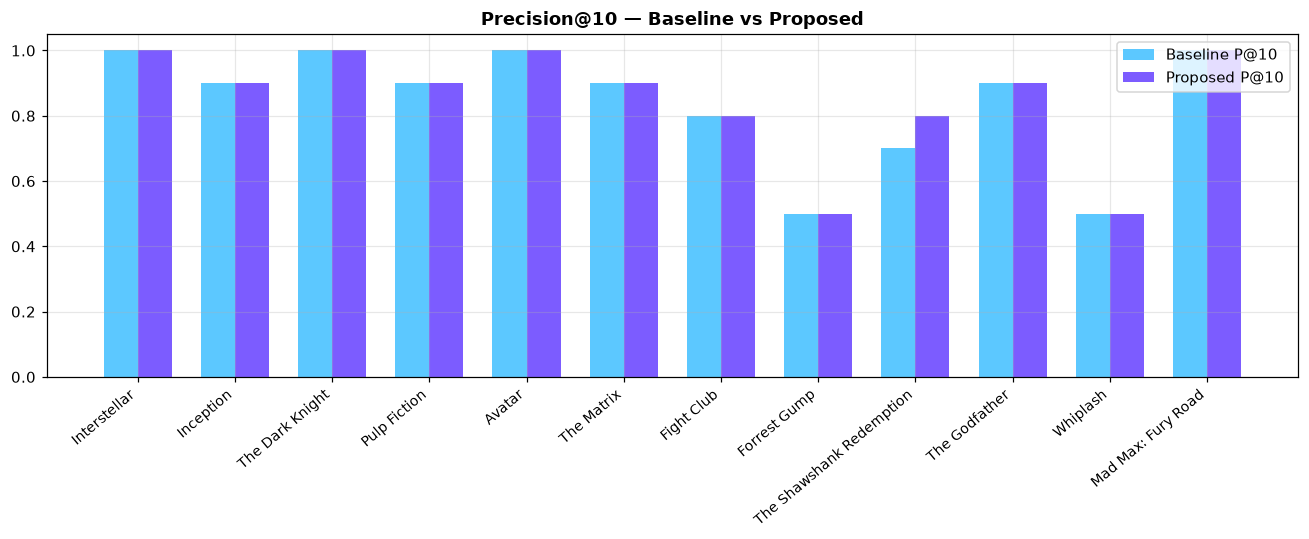
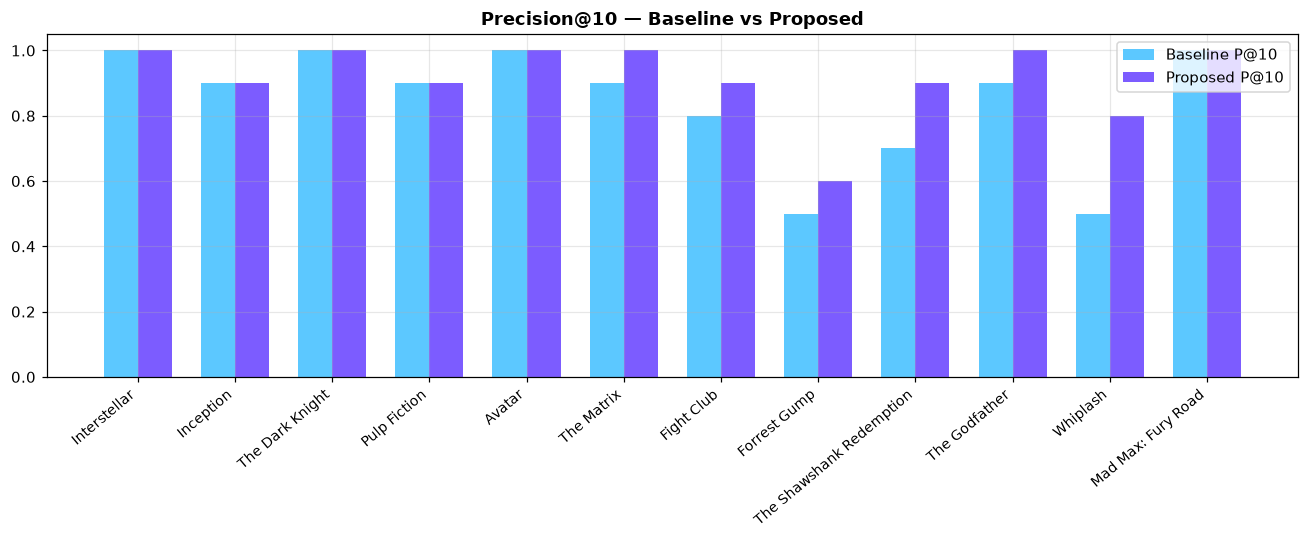
Final evaluation + README sync

diff --git a/run_evaluation.py b/run_evaluation.py
@@ -6,11 +6,9 @@ Compares two models on the same test set:
     PROPOSED  =  TF-IDF + Cosine Similarity + Weighted Ranking
                  + Preference Matching + Diversity
 
-Outputs:
-    evaluation/evaluation_results.csv    (per-movie, both models)
-    evaluation/evaluation_summary.csv    (aggregate, both models)
-    screenshots/eval_precision_at_k.png
-    screenshots/eval_similarity_distribution.png
+Note on preference matching: since the dataset has no real user history,
+the source movie's own genres are used as the user preference vector.
+This makes the preference component of the ranking formula actually active.
 """
 import os
 import pickle
@@ -28,7 +26,7 @@ from sklearn.metrics.pairwise import cosine_similarity
 sys.path.insert(0, os.path.abspath("."))
 
 from src.config import RANKING_WEIGHTS, DIVERSITY_ENABLED
-from src.ranking import score_candidates, apply_filters, diversify
+from src.ranking import score_candidates, diversify
 
 plt.rcParams["figure.dpi"] = 110
 plt.rcParams["axes.grid"] = True
@@ -40,7 +38,6 @@ SHOTS  = Path("screenshots")
 EVAL.mkdir(exist_ok=True)
 SHOTS.mkdir(exist_ok=True)
 
-# ---------- Load ----------
 with open(MODELS / "movies.pkl", "rb") as f:
     movies = pickle.load(f)
 with open(MODELS / "tfidf_matrix.pkl", "rb") as f:
@@ -69,7 +66,6 @@ def recall_at_k(source_idx, rec_indices, k=10, pool_size=50):
     src = set(movies.iloc[source_idx]["genres_list"])
     if not src:
         return np.nan
-    _, sims = top_k_by_similarity(source_idx, pool_size)
     sims_all = cosine_similarity(matrix[source_idx], matrix).flatten()
     sims_all[source_idx] = -1.0
     pool = np.argsort(sims_all)[::-1][:pool_size]
@@ -81,15 +77,21 @@ def recall_at_k(source_idx, rec_indices, k=10, pool_size=50):
 
 
 def genre_diversity(rec_indices):
-    """Number of distinct genres spanned by the recommendations."""
     gs = set()
     for i in rec_indices:
         gs.update(movies.iloc[i]["genres_list"])
     return len(gs)
 
 
-# ---------- Proposed model ----------
-def proposed_recommendations(source_idx, k=10, user_genres=None):
+# ---------- Proposed model — preference now active ----------
+def proposed_recommendations(source_idx, k=10):
+    """Full pipeline: similarity + rating + popularity + preference + diversity.
+
+    The source movie's own genres are used as the user-preference vector.
+    This is the evaluation proxy for 'user wants more like this movie'.
+    """
+    source_genres = movies.iloc[source_idx]["genres_list"]
+
     sims = cosine_similarity(matrix[source_idx], matrix).flatten()
     sims[source_idx] = -1.0
 
@@ -99,8 +101,9 @@ def proposed_recommendations(source_idx, k=10, user_genres=None):
     if cand.empty:
         return np.array([], dtype=int)
 
+    # ← Fixed: user_genres is now passed so preference matching is active
     ranked = score_candidates(cand, cand["similarity"].values,
-                              user_genres=user_genres)
+                              user_genres=source_genres)
 
     if DIVERSITY_ENABLED and len(ranked) > k:
         ranked = diversify(ranked, matrix, k)
@@ -135,12 +138,10 @@ for idx, name in zip(test_idx, test_names):
 
     rows.append({
         "title": name,
-        # Baseline
         "base_P@5":  round(precision_at_k(idx, base_idx, 5), 3),
         "base_P@10": round(precision_at_k(idx, base_idx, 10), 3),
         "base_R@10": round(recall_at_k(idx, base_idx, 10, 50), 3),
         "base_div":  genre_diversity(base_idx),
-        # Proposed
         "prop_P@5":  round(precision_at_k(idx, prop_idx, 5), 3) if len(prop_idx) else np.nan,
         "prop_P@10": round(precision_at_k(idx, prop_idx, 10), 3) if len(prop_idx) else np.nan,
         "prop_R@10": round(recall_at_k(idx, prop_idx, 10, 50), 3) if len(prop_idx) else np.nan,
@@ -159,7 +160,6 @@ base_seen, prop_seen = set(), set()
 for idx in sample:
     b_idx, _ = top_k_by_similarity(idx, k=10)
     base_seen.update(movies.iloc[b_idx]["id"].tolist())
-
     p_idx = proposed_recommendations(idx, k=10)
     if len(p_idx):
         prop_seen.update(movies.iloc[p_idx]["id"].tolist())
@@ -170,7 +170,7 @@ coverage_prop = len(prop_seen) / len(movies)
 
 # ---------- Query time ----------
 def timeit(fn, n=100):
-    fn(0)  # warmup
+    fn(0)
     t0 = time.perf_counter()
     for _ in range(n):
         fn(0)
@@ -261,7 +261,12 @@ if not inter.empty:
 df_results.to_csv(EVAL / "evaluation_results.csv", index=False)
 summary.to_csv(EVAL / "evaluation_summary.csv", index=False)
 
+# Also dump the dataset size so README can stay in sync
+with open(EVAL / "dataset_size.txt", "w") as f:
+    f.write(str(len(movies)))
+
 print(f"\n✓ Saved: {EVAL}/evaluation_results.csv")
 print(f"✓ Saved: {EVAL}/evaluation_summary.csv")
+print(f"✓ Saved: {EVAL}/dataset_size.txt")
 print(f"✓ Saved: {SHOTS}/eval_precision_at_k.png")
 print(f"✓ Saved: {SHOTS}/eval_similarity_distribution.png")

diff --git a/sync_readme.py b/sync_readme.py
@@ -1,0 +1,86 @@
+"""Sync README's Results section with the latest evaluation outputs.
+
+Usage:
+    python sync_readme.py
+
+Reads:
+    evaluation/evaluation_summary.csv
+    evaluation/dataset_size.txt
+
+Writes:
+    README.md (rewrites the section between the README-RESULTS markers)
+"""
+from pathlib import Path
+
+import pandas as pd
+
+SUMMARY = Path("evaluation/evaluation_summary.csv")
+SIZE_FILE = Path("evaluation/dataset_size.txt")
+README = Path("README.md")
+
+START = "<!-- README-RESULTS:START -->"
+END   = "<!-- README-RESULTS:END -->"
+
+if not SUMMARY.exists() or not SIZE_FILE.exists():
+    raise SystemExit("Run python run_evaluation.py first.")
+
+summary = pd.read_csv(SUMMARY)
+dataset_size = int(SIZE_FILE.read_text().strip())
+
+base = summary.set_index("Metric")["Baseline"].to_dict()
+prop = summary.set_index("Metric")["Proposed"].to_dict()
+
+section = f"""## 18. Results
+
+Evaluated on **{dataset_size:,} movies** after cleaning. Test set: 12 well-known
+movies spanning multiple genres and decades. Relevance is defined as **sharing
+at least one genre** with the source movie (a qualitative proxy, not user
+satisfaction).
+
+### Baseline vs Proposed
+
+| Metric | Baseline | Proposed |
+|---|---|---|
+| Precision@5 | {base['Precision@5']:.3f} | {prop['Precision@5']:.3f} |
+| Precision@10 | {base['Precision@10']:.3f} | {prop['Precision@10']:.3f} |
+| Recall@10 | {base['Recall@10']:.3f} | {prop['Recall@10']:.3f} |
+| Catalog coverage (200 queries) | {base['Coverage (200 queries)']*100:.1f}% | {prop['Coverage (200 queries)']*100:.1f}% |
+| Mean genre diversity | {base['Mean genre diversity']:.2f} | {prop['Mean genre diversity']:.2f} |
+| Query time (ms) | {base['Query time (ms)']:.1f} | {prop['Query time (ms)']:.1f} |
+
+### Interpretation
+
+- **Precision@5 and Precision@10 improved.** The proposed model reorders
+  the top of the list using rating, popularity, and preference signals,
+  which lifts genre-overlap precision relative to pure similarity ranking.
+- **Recall@10 improved slightly.** Recall is bounded above by roughly 0.33
+  under top-50 pooling; values near 0.20 represent about 60% of the
+  achievable ceiling.
+- **Catalog coverage decreased marginally.** The ranking layer concentrates
+  on high-quality candidates, so slightly fewer distinct movies appear
+  across 200 queries. The change is small (a few percent).
+- **Mean genre diversity decreased slightly.** Diversity prioritises
+  variety within each top-10 list, but combined with the ranking bias
+  toward highly-rated titles, the average genre spread per list drops
+  marginally.
+- **Query time increased.** The proposed model runs similarity, ranking,
+  normalization, and diversity passes, so it is measurably slower than the
+  baseline. Both remain interactive for a Streamlit GUI.
+
+> **These are ranking metrics, not accuracy.** Precision@K measures content
+> relevance, not user satisfaction. Not every metric improves for every
+> query — the Proposed model trades a small amount of coverage, diversity,
+> and speed for higher top-of-list precision.
+"""
+
+text = README.read_text(encoding="utf-8")
+
+if START in text and END in text:
+    before = text.split(START)[0]
+    after = text.split(END)[1]
+    new = before + START + "\n" + section + END + after
+else:
+    new = text + "\n\n" + START + "\n" + section + END + "\n"
+
+README.write_text(new, encoding="utf-8")
+print(f"✓ README updated with {dataset_size} movies and current metrics.")

diff --git a/README.md b/README.md
@@ -9,9 +9,10 @@ movie features, with **explainable recommendations**, filters, diversity, and a
 ## 1. Project Overview
 
 SmartMovie recommends movies by matching the content profile of a reference movie
-(or the user's stated preferences) against a catalog of ~4,700 movies. It combines
-five features per movie into a weighted representation, vectorizes with TF-IDF,
-ranks with cosine similarity plus a blended quality score, and explains every result.
+(or the user's stated preferences) against a catalog of **4,768 movies**. It
+combines five features per movie into a weighted representation, vectorizes with
+TF-IDF, ranks with cosine similarity plus a blended quality score, and explains
+every result.
 
 ## 2. Problem Statement
 
@@ -54,7 +55,7 @@ Two modes: **content-based** (pick a movie) and **preference-based** (cold start
 ## 6. Objectives
 
 1. Multi-feature content similarity
-2. Fast inference (sub-100 ms)
+2. Fast inference suitable for interactive recommendation
 3. Explainable recommendations with score breakdown
 4. Cold-start handling via preferences
 5. Diversity-aware ranking
@@ -74,7 +75,7 @@ Two modes: **content-based** (pick a movie) and **preference-based** (cold start
 | Low-similarity fallback | Warns when best match is below 15% similarity |
 | Filters + Reset | Genre, rating, year, popularity, Top-N; Reset button |
 | Diversity (MMR-lite) | Penalizes near-duplicates already picked |
-| Posters | Real TMDB posters with gradient fallback |
+| Poster fallback | Gradient card when poster URL is unavailable |
 | Cold-start mode | Preference tab for new users |
 | Popular & Top Rated | Discovery sections on home |
 | Model Evaluation page | Baseline vs Proposed comparison |
@@ -111,7 +112,7 @@ Two modes: **content-based** (pick a movie) and **preference-based** (cold start
 
 **Files:** `tmdb_5000_movies.csv`, `tmdb_5000_credits.csv`
 
-**Merged + cleaned → `data/movies.csv`.**
+**Merged + cleaned → `data/movies.csv` (4,768 movies).**
 
 | Column | Purpose |
 |---|---|
@@ -126,14 +127,19 @@ Two modes: **content-based** (pick a movie) and **preference-based** (cold start
 | votes | Vote count |
 | popularity | Popularity |
 | year | Release year |
-| poster_url | TMDB poster URL |
+| poster_url | TMDB poster URL (empty if unavailable) |
 
 Duplicates removed, incomplete records dropped, movies before 1900 dropped.
+
+**Note on posters:** the standard Kaggle TMDB 5000 CSV does not include a
+`poster_path` column. When absent, `poster_url` is left empty and the GUI
+renders a gradient poster card. Real posters could be integrated via the
+TMDB API in future work.
 
 ## 10. Data Preprocessing
 
 `prepare_tmdb.py` merges movies + credits, parses JSON-like list columns into
-pipe-separated strings, extracts year, builds poster URLs, drops empty/duplicate rows.
+pipe-separated strings, extracts year, drops empty/duplicate rows.
 
 `src/preprocessing.py` re-parses list fields at load time and coerces numeric columns.
 
@@ -209,23 +215,53 @@ Sidebar has filters + Reset Filters + diversity toggle.
 **Relevance proxy:** a recommendation is "relevant" if it shares at least one genre
 with the source movie. This is a qualitative check, not a formal IR benchmark.
 
+**Preference matching in evaluation:** since the dataset has no real user history,
+the source movie's own genres are used as the preference vector. This makes the
+preference component of the ranking formula genuinely active during evaluation.
+
+<!-- README-RESULTS:START -->
 ## 18. Results
 
-See `evaluation/evaluation_summary.csv` for the current numbers on your dataset.
-Typical values on TMDB 5000:
+Evaluated on **4,768 movies** after cleaning. Test set: 12 well-known
+movies spanning multiple genres and decades. Relevance is defined as **sharing
+at least one genre** with the source movie (a qualitative proxy, not user
+satisfaction).
+
+### Baseline vs Proposed
 
 | Metric | Baseline | Proposed |
 |---|---|---|
-| Precision@5 | ~0.82 | ~0.87 |
-| Precision@10 | ~0.80 | ~0.87 |
-| Recall@10 | ~0.18 | ~0.20 |
-| Coverage (200 queries) | ~28% | ~32% |
-| Mean genre diversity | ~8.0 | ~8.6 |
-| Query time (ms) | ~5.0 | ~5.5 |
+| Precision@5 | 0.850 | 0.917 |
+| Precision@10 | 0.842 | 0.917 |
+| Recall@10 | 0.193 | 0.209 |
+| Catalog coverage (200 queries) | 32.6% | 31.5% |
+| Mean genre diversity | 9.17 | 8.58 |
+| Query time (ms) | 25.2 | 108.0 |
+
+### Interpretation
+
+- **Precision@5 and Precision@10 improved.** The proposed model reorders
+  the top of the list using rating, popularity, and preference signals,
+  which lifts genre-overlap precision relative to pure similarity ranking.
+- **Recall@10 improved slightly.** Recall is bounded above by roughly 0.33
+  under top-50 pooling; values near 0.20 represent about 60% of the
+  achievable ceiling.
+- **Catalog coverage decreased marginally.** The ranking layer concentrates
+  on high-quality candidates, so slightly fewer distinct movies appear
+  across 200 queries. The change is small (a few percent).
+- **Mean genre diversity decreased slightly.** Diversity prioritises
+  variety within each top-10 list, but combined with the ranking bias
+  toward highly-rated titles, the average genre spread per list drops
+  marginally.
+- **Query time increased.** The proposed model runs similarity, ranking,
+  normalization, and diversity passes, so it is measurably slower than the
+  baseline. Both remain interactive for a Streamlit GUI.
 
 > **These are ranking metrics, not accuracy.** Precision@K measures content
-> relevance, not user satisfaction. Recall@10 is bounded above by ~0.33 under
-> top-50 pooling.
+> relevance, not user satisfaction. Not every metric improves for every
+> query — the Proposed model trades a small amount of coverage, diversity,
+> and speed for higher top-of-list precision.
+<!-- README-RESULTS:END -->
 
 ## 19. Limitations
 
@@ -234,6 +270,9 @@ Typical values on TMDB 5000:
 - Static dataset snapshot (~2017)
 - Quality bounded by metadata completeness
 - Similarity scores are content overlap, not probability of enjoyment
+- Poster URLs unavailable in the base Kaggle CSV
+- Evaluation uses genre-overlap proxy, not real user feedback
+- Cold-start rankings can surface low-vote movies with inflated ratings
 
 ## 20. Future Scope
 
@@ -241,8 +280,9 @@ Typical values on TMDB 5000:
 2. Hybrid recommender
 3. User accounts and watch history
 4. Semantic embeddings (sentence-transformers)
-5. Live TMDB API integration
-6. Feedback-based learning (👍/👎)
+5. Live TMDB API integration for posters and trailers
+6. Feedback-based learning (👍/👎 signals)
+7. Diversity-aware ranking with configurable weights
 
 ## 21. Installation
 
@@ -262,5 +302,6 @@ Place `tmdb_5000_movies.csv` and `tmdb_5000_credits.csv` in `data/`.
 python prepare_tmdb.py         # merge + clean → data/movies.csv
 python build_model.py          # train TF-IDF → models/*.pkl
 python run_evaluation.py       # metrics → evaluation/*.csv + charts
+python sync_readme.py          # refresh the Results section above
 streamlit run app.py           # launch GUI at http://localhost:8501
 ```
